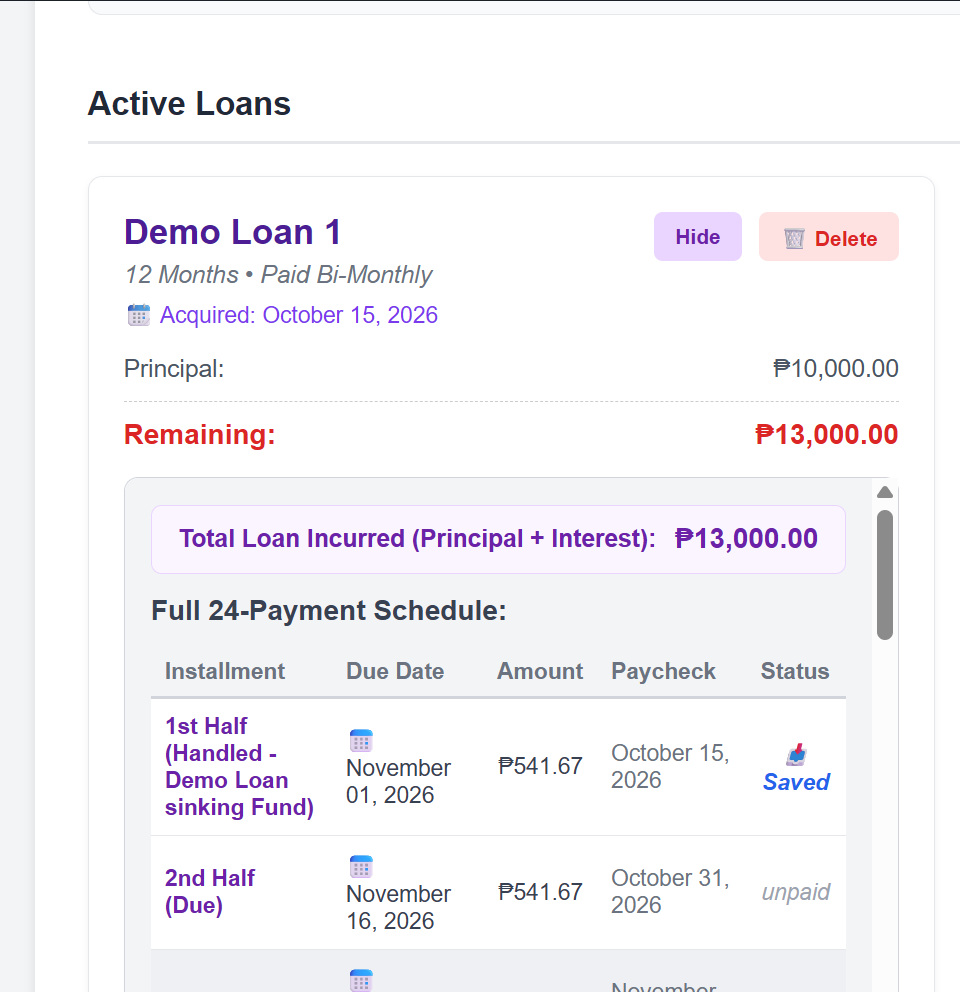
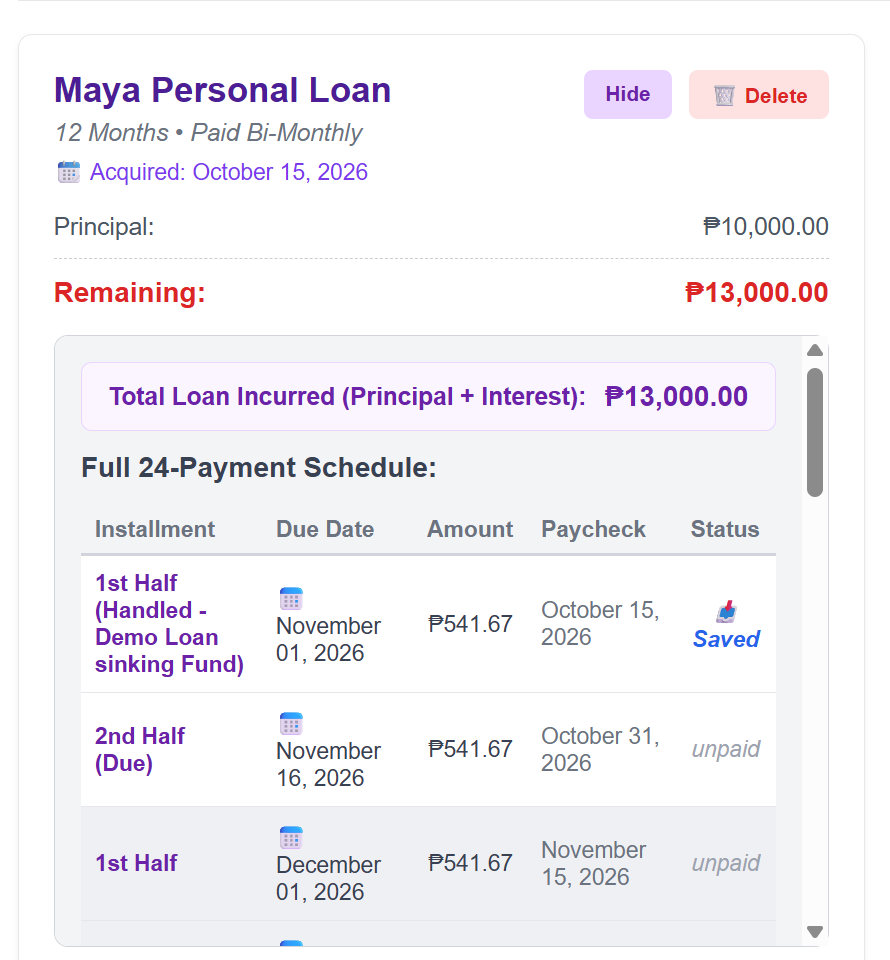
README: add the Bi-Monthly Budget summary and update the loan screenshot
Claude-Session: https://claude.ai/code/session_016QyV7iFiUs9wqCuQGwTs1j

diff --git a/README.md b/README.md
@@ -11,6 +11,10 @@ The same demo vault on the desktop and on an Android phone, kept in step by live
   <img src="docs/screenshots/phone-dashboard.jpg" alt="The same dashboard on an Android phone" width="200">
 </p>
 
+<img src="docs/screenshots/desktop-budget-summary.png" alt="Bi-Monthly Budget summary: each bill with its due date, amount, and the paycheck that pays it" width="720">
+
+*Bi-Monthly Budget: every bill is assigned to the paycheck that will cover it. Electricity is still TBD, so it's flagged until the amount comes in.*
+
 <img src="docs/screenshots/desktop-loan.png" alt="Loan Generator: a 12-month loan with its full bi-monthly payment schedule" width="480">
 
 *Loan Generator: a ₱10,000 loan turned into a 24-payment bi-monthly schedule, each payment assigned to a paycheck.*

diff --git a/PROGRESS.md b/PROGRESS.md
@@ -26,7 +26,8 @@ What's done, what's next, and what's blocked. Newest entries first.
 ## Next
 
 - [x] Add screenshots (desktop Dashboard, phone Dashboard, Loan Generator) to the README.
-- [ ] Add a Bi-Monthly Budget screenshot once "Rent2" is renamed and the phone layout is fixed.
+- [x] Add a Bi-Monthly Budget screenshot.
+- [ ] Retake the Dashboard pair (desktop + phone) with the updated demo data.
 - [ ] Record a 60-second demo: pay a bill on the phone, watch the desktop update.
 - [ ] Write a half-page case study for the portfolio.
 
